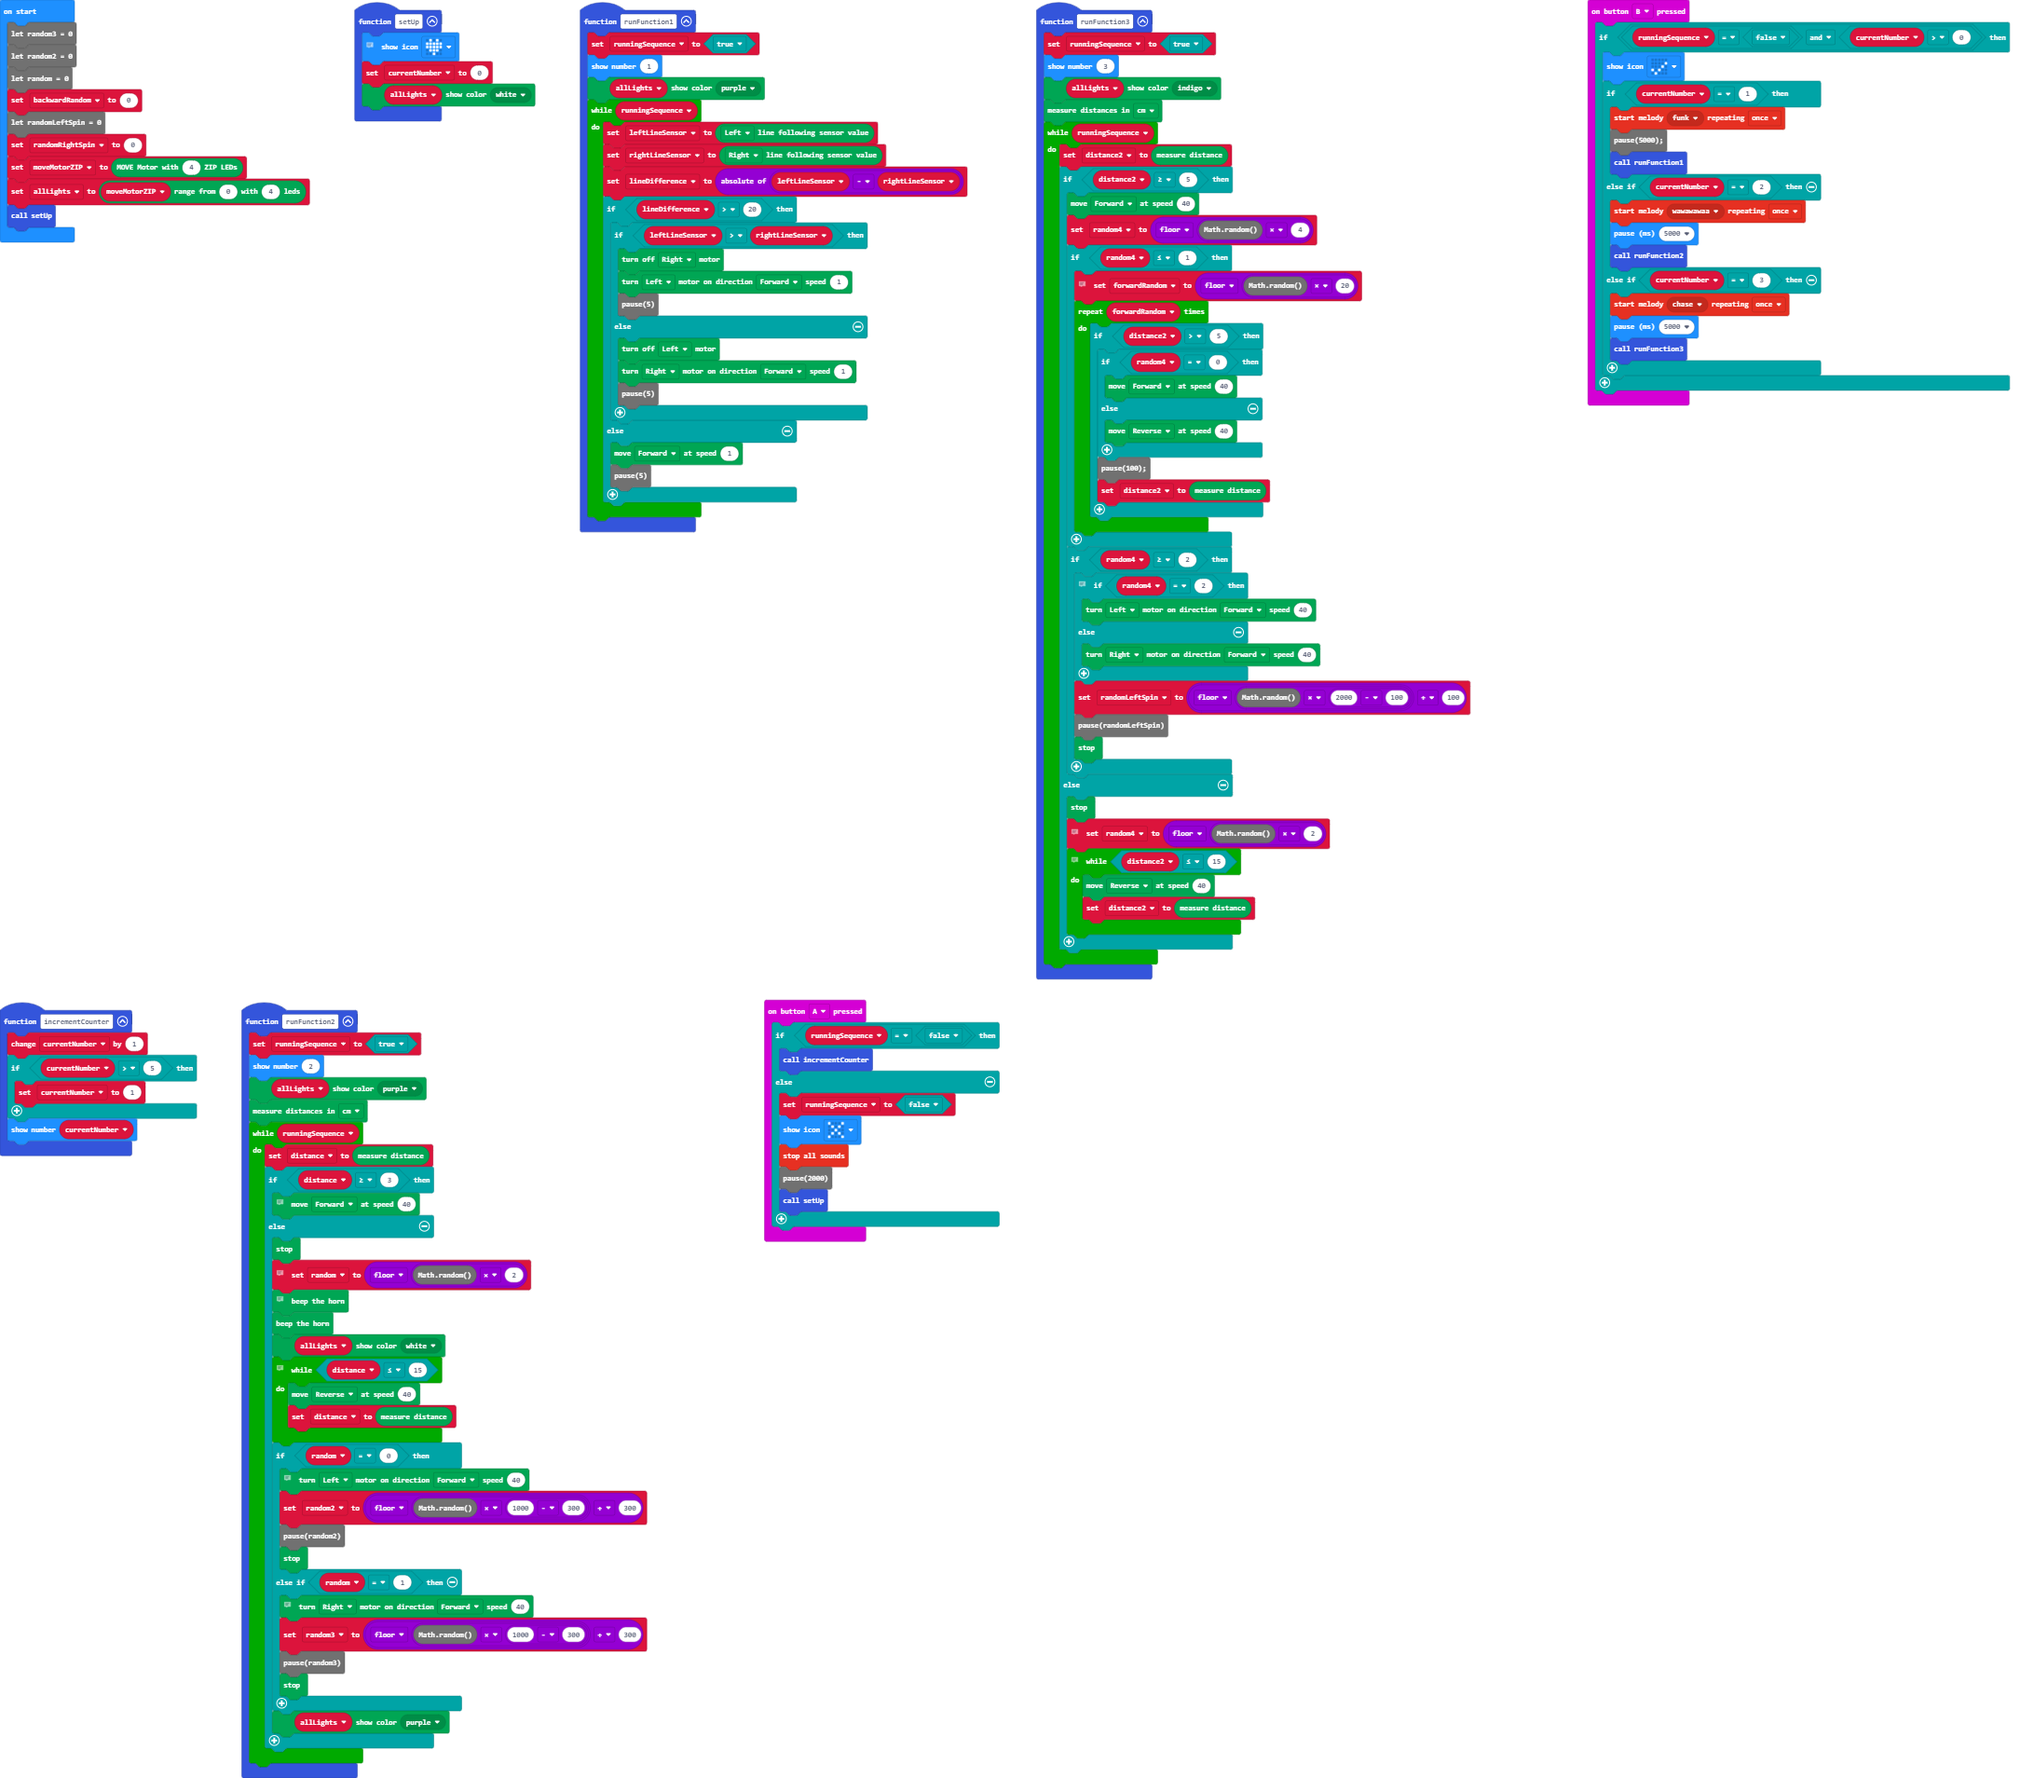
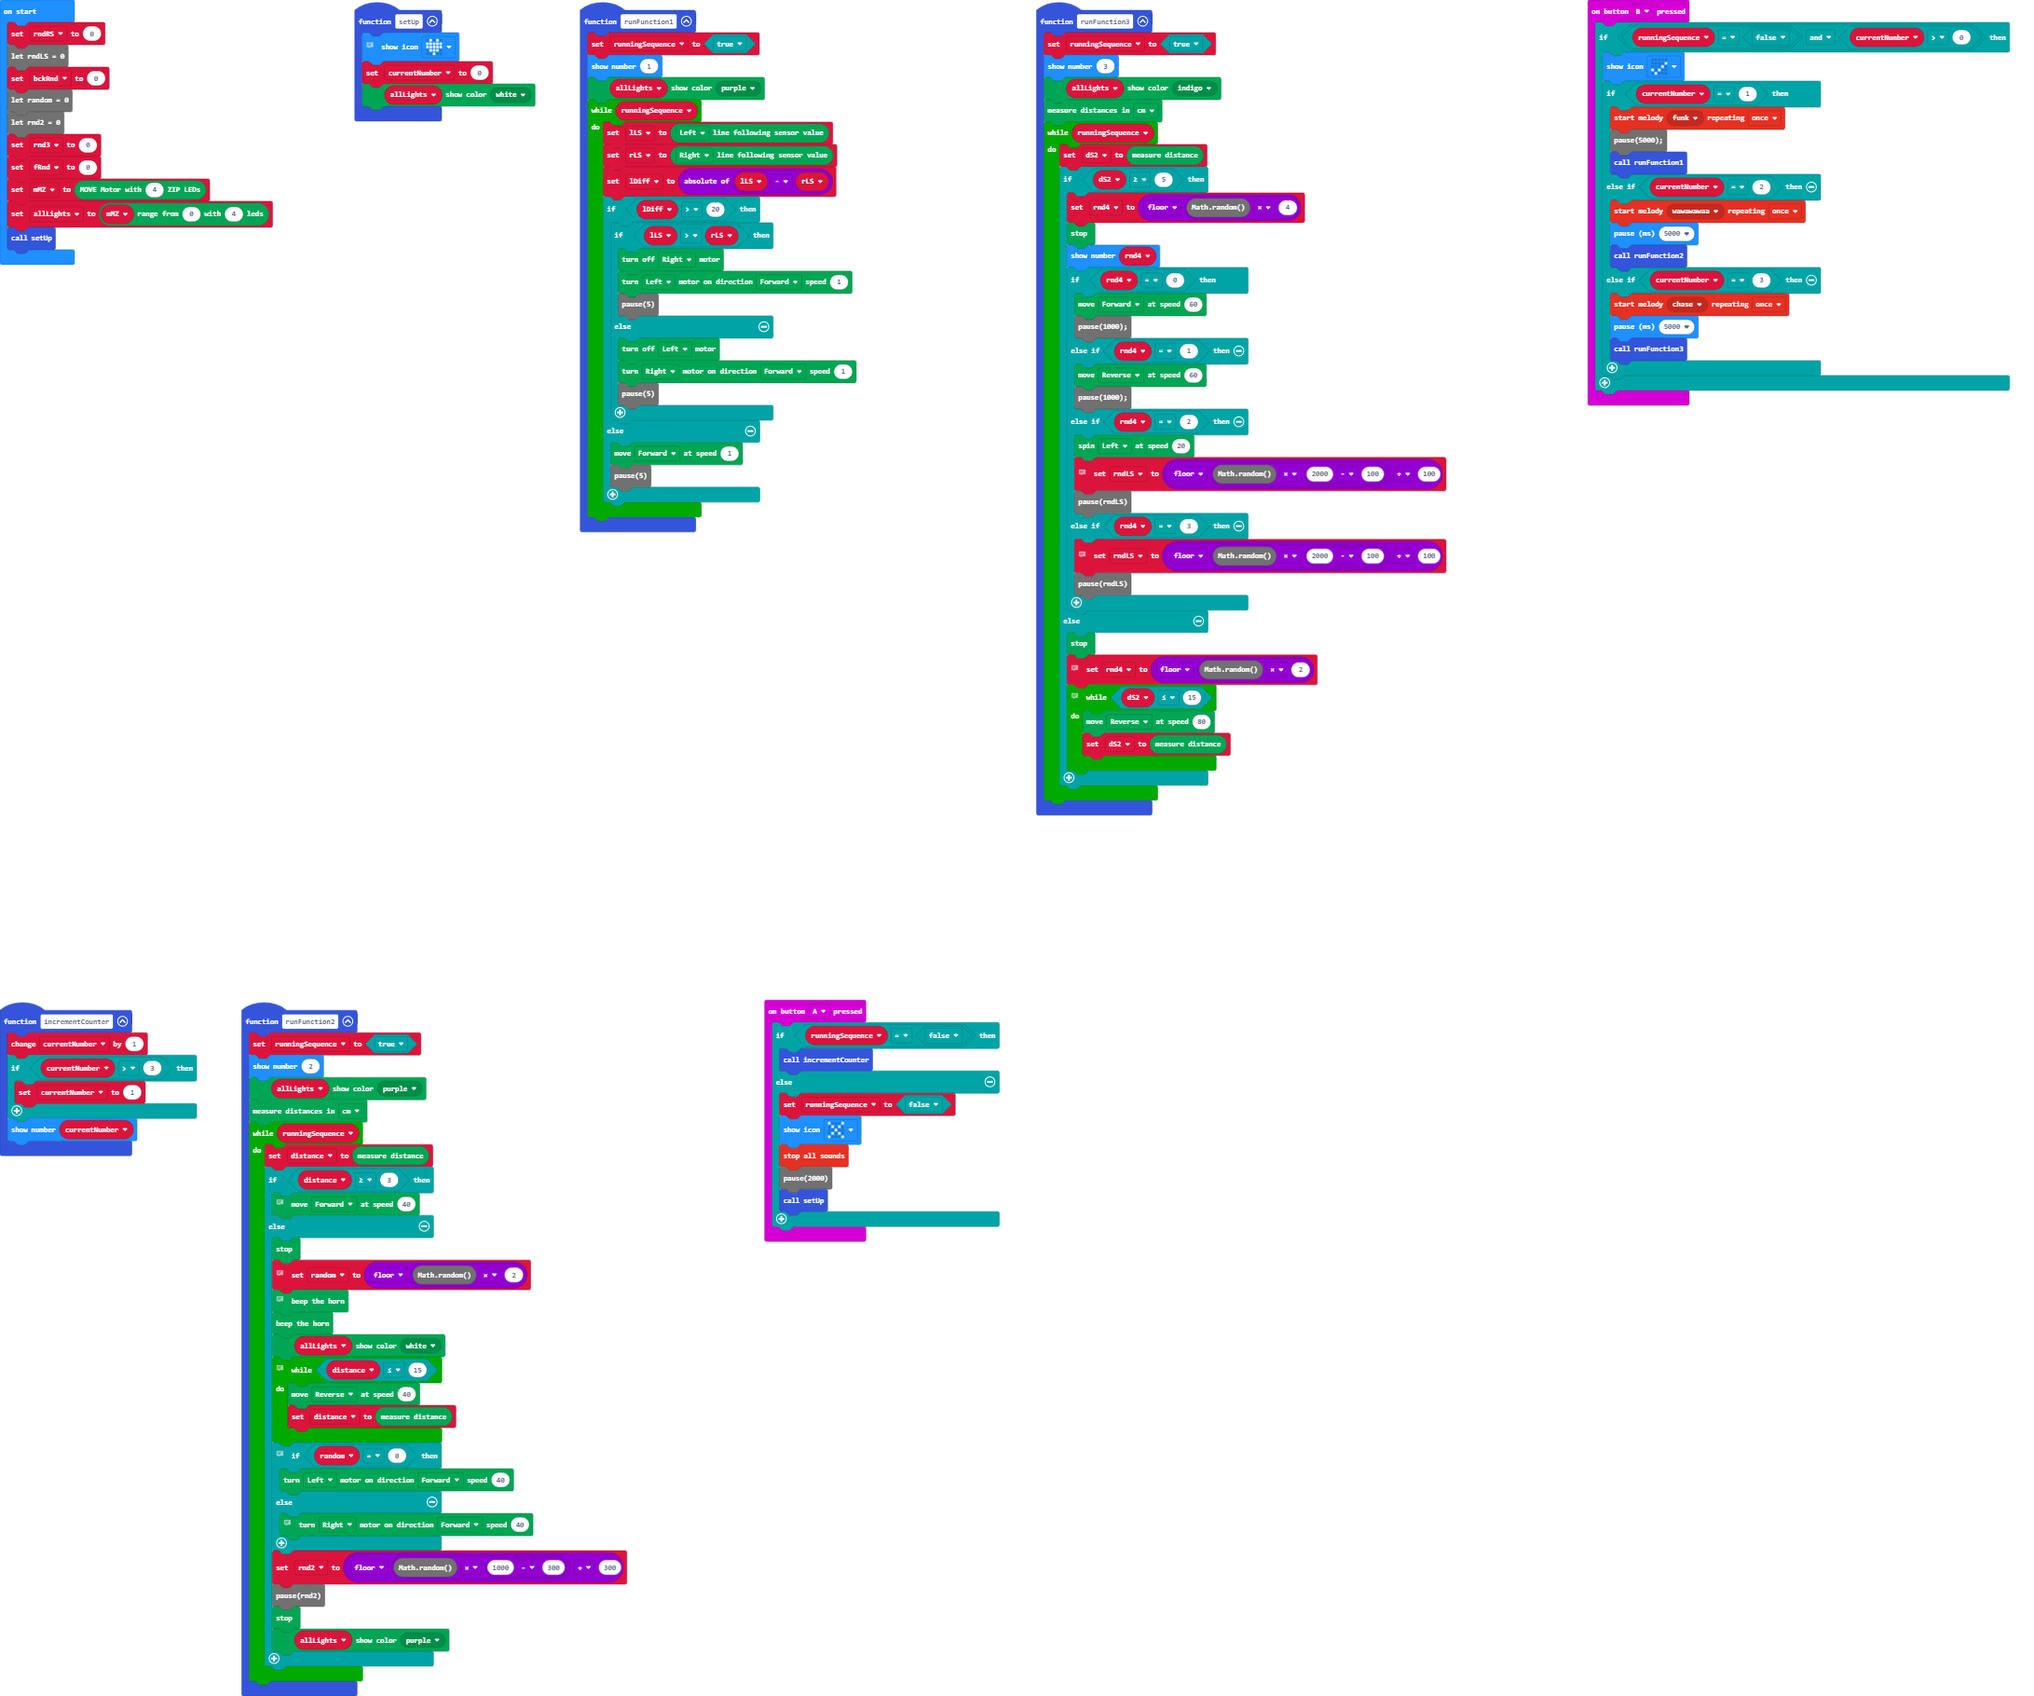
even smaller

diff --git a/main.ts b/main.ts
@@ -12,7 +12,7 @@ input.onButtonPressed(Button.A, function () {
         basic.showIcon(IconNames.No)
         music.stopAllSounds()
         pause(2000)
-        setUp()
+setUp()
     }
 })
 function runFunction1 () {
@@ -47,55 +47,41 @@ function runFunction3 () {
     while (runningSequence) {
         dS2 = Kitronik_Move_Motor.measure()
         if (dS2 >= 5) {
-            Kitronik_Move_Motor.move(Kitronik_Move_Motor.DriveDirections.Forward, 40)
             rnd4 = Math.floor(Math.random() * 4)
-            if (rnd4 <= 1) {
-                // go forward?
-                fRnd = Math.floor(Math.random() * 20)
-                for (let index = 0; index < fRnd; index++) {
-                    if (dS2 > 5) {
-                        if (rnd4 == 0) {
-                            Kitronik_Move_Motor.move(Kitronik_Move_Motor.DriveDirections.Forward, 40)
-                        } else {
-                            Kitronik_Move_Motor.move(Kitronik_Move_Motor.DriveDirections.Reverse, 40)
-                        }
-                        pause(100);
-dS2 = Kitronik_Move_Motor.measure()
-                    }
-                }
-            }
-            if (rnd4 >= 2) {
-                // spin left - up to 2 sec
-                if (rnd4 == 2) {
-                    Kitronik_Move_Motor.motorOn(Kitronik_Move_Motor.Motors.MotorLeft, Kitronik_Move_Motor.MotorDirection.Forward, 40)
-                } else {
-                    Kitronik_Move_Motor.motorOn(Kitronik_Move_Motor.Motors.MotorRight, Kitronik_Move_Motor.MotorDirection.Forward, 40)
-                }
+            Kitronik_Move_Motor.stop()
+            basic.showNumber(rnd4)
+            if (rnd4 == 0) {
+                Kitronik_Move_Motor.move(Kitronik_Move_Motor.DriveDirections.Forward, 60)
+                pause(1000);
+            } else if (rnd4 == 1) {
+                Kitronik_Move_Motor.move(Kitronik_Move_Motor.DriveDirections.Reverse, 60)
+                pause(1000);
+            } else if (rnd4 == 2) {
+                Kitronik_Move_Motor.spin(Kitronik_Move_Motor.SpinDirections.Left, 80)
                 rndLS = Math.floor(Math.random() * (2000 - 100)) + 100
                 pause(rndLS)
-Kitronik_Move_Motor.stop()
+            } else if (rnd4 == 3) {
+                Kitronik_Move_Motor.spin(Kitronik_Move_Motor.SpinDirections.Right, 80)
+                rndLS = Math.floor(Math.random() * (2000 - 100)) + 100
+                pause(rndLS)
             }
         } else {
             Kitronik_Move_Motor.stop()
-            // lets go random
-            rnd4 = Math.floor(Math.random() * 2)
-            // Should change direction.Go back first a bit! - go back 30
-            while (dS2 <= 15) {
-                Kitronik_Move_Motor.move(Kitronik_Move_Motor.DriveDirections.Reverse, 40)
-                dS2 = Kitronik_Move_Motor.measure()
-            }
+            Kitronik_Move_Motor.move(Kitronik_Move_Motor.DriveDirections.Reverse, 80)
+            pause(500);
+            
         }
     }
 }
 input.onButtonPressed(Button.B, function () {
     if (runningSequence == false && currentNumber > 0) {
-        basic.showIcon(IconNames.Yes)
+        
         if (currentNumber == 1) {
             music.startMelody(music.builtInMelody(Melodies.Funk), MelodyOptions.Once)
             pause(5000);
 runFunction1()
         } else if (currentNumber == 2) {
-            music.startMelody(music.builtInMelody(Melodies.Wawawawaa), MelodyOptions.Once)
+            //music.startMelody(music.builtInMelody(Melodies.Wawawawaa), MelodyOptions.Once)
             basic.pause(5000)
             runFunction2()
         } else if (currentNumber == 3) {
@@ -135,26 +121,21 @@ function runFunction2 () {
                 Kitronik_Move_Motor.move(Kitronik_Move_Motor.DriveDirections.Reverse, 40)
                 distance = Kitronik_Move_Motor.measure()
             }
-            
-                // go left
-                if (random == 0) {
+            // go left
+            if (random == 0) {
                 Kitronik_Move_Motor.motorOn(Kitronik_Move_Motor.Motors.MotorLeft, Kitronik_Move_Motor.MotorDirection.Forward, 40)
-                }  else  {
+            } else {
                 // go right
                 Kitronik_Move_Motor.motorOn(Kitronik_Move_Motor.Motors.MotorRight, Kitronik_Move_Motor.MotorDirection.Forward, 40)
-                }
-                rnd2 = Math.floor(Math.random() * (1000 - 300)) + 300
-                pause(rnd2)
+            }
+            rnd2 = Math.floor(Math.random() * (1000 - 300)) + 300
+            pause(rnd2)
 Kitronik_Move_Motor.stop()
-           
-                
-            
             allLights.showColor(Kitronik_Move_Motor.colors(Kitronik_Move_Motor.ZipLedColors.Purple))
         }
     }
 }
 let distance = 0
-let fRnd = 0
 let rnd4 = 0
 let dS2 = 0
 let lDiff = 0
@@ -162,13 +143,14 @@ let rLS = 0
 let lLS = 0
 let runningSequence = false
 let currentNumber = 0
-let allLights:  Kitronik_Move_Motor.MoveMotorZIP = null
-let rnd3 = 0
-let rnd2 = 0
-let random = 0
-let bckRnd = 0
-let rndLS = 0
+let allLights: Kitronik_Move_Motor.MoveMotorZIP = null
 let rndRS = 0
+let rndLS = 0
+let bckRnd = 0
+let random = 0
+let rnd2 = 0
+let rnd3 = 0
+let fRnd = 0
 let mMZ = Kitronik_Move_Motor.createMoveMotorZIPLED(4)
 allLights = mMZ.range(0, 4)
 setUp()
